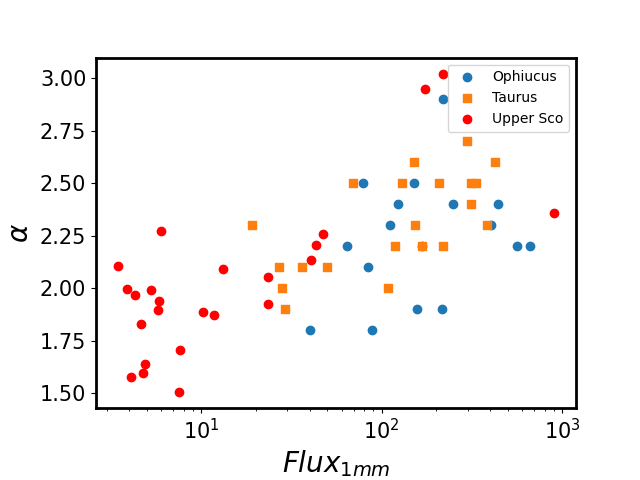
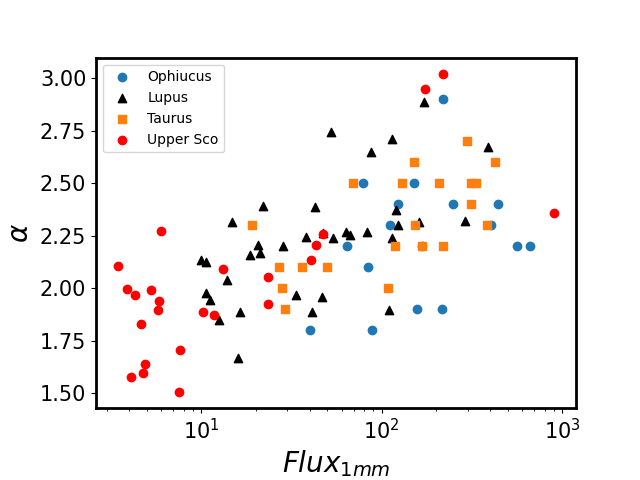
.

diff --git a/Gradient_age_in_HR_diagram.py b/Gradient_age_in_HR_diagram.py
@@ -1,8 +1,10 @@
+import scipy.stats
+
 from data_file import source_list_garrett, source_list_barenfeld_2016, temperature_list_barenfeld,\
-    ricci_temperature_taurus_1mm, ricci_luminosity_taurus_1mm_NOT_LOG, spectral_indices_taurus
+    ricci_temperature_taurus_1mm, ricci_luminosity_taurus_1mm_NOT_LOG, spectral_indices_taurus,\
+    luminosity_list_barenfeld_updated
 from Parallaxes import luminosity_106, lower_new_luminosity_error_log, upper_new_luminosity_error_log
 from Cumulative_spectral_indices import spectral_index_upper_sco
-from HR_Diagram import f20, f10, f5
 
 import numpy as np
 import matplotlib.pyplot as plt
@@ -38,37 +40,38 @@ ricci_luminosity_taurus_1mm_LOG = [np.log10(x) for x in ricci_luminosity_taurus_
 # manipulate trasnparency errobars
 kwargs_errobar = {'alpha':0.3}
 
-x_5Myr = np.linspace(3000, 5280)
-x = np.linspace(3000, 5000)
+x = np.linspace(-1.5, 1)
 
 matching_temperatures_barenfeld_garrett = [10 ** x for x in matching_temperatures_barenfeld_garrett]
 
-z = np.polyfit(matching_temperatures_barenfeld_garrett, spectral_index_upper_sco, 3)
+z = np.polyfit(luminosity_list_barenfeld_updated, spectral_index_upper_sco, 1)
 p = np.poly1d(z)
 plt.plot(x, p(x))
-plt.fill_between(x, p(x), p(x)+0.3, **kwargs_errobar)
-plt.fill_between(x, p(x), p(x)-0.3, **kwargs_errobar)
+#plt.fill_between(x, p(x), p(x)+0.3, **kwargs_errobar)
+#plt.fill_between(x, p(x), p(x)-0.3, **kwargs_errobar)
 
 #scatter T vs alpha
-plt.scatter(matching_temperatures_barenfeld_garrett, spectral_index_upper_sco, c=matching_luminsoities_barenfeld_garrett, cmap='gray', zorder=2, label='Upper-Sco')
-#plt.errorbar(matching_temperatures_barenfeld_garrett, matching_luminsoities_barenfeld_garrett, yerr=matching_upper_luminoisty_error_barenfeld_garrett_LOG, ls='none')
-#plt.plot(x, f10(x), c='red', label='10Myr', zorder=1)
-#plt.plot(x, f20(x), label='20Myr', zorder=1)
-#plt.plot(x_5Myr, f5(x_5Myr), c='black', label='5Myr', zorder=1)
+plt.scatter(luminosity_list_barenfeld_updated, spectral_index_upper_sco, c=matching_temperatures_barenfeld_garrett, cmap='gray', zorder=2, label='Upper-Sco')
 plt.gca().invert_xaxis()
 plt.legend()
-plt.xlabel("$T[K]$", fontsize=20), plt.ylabel(r'$\alpha', fontsize=20)
+plt.xlabel(r"$L [L_{\odot}]$")
+#plt.xlabel(r"$T[\rm K]$", fontsize=20)
+plt.ylabel(r'$\alpha$', fontsize=20)
 plt.show()
 
-z = np.polyfit(ricci_temperature_taurus_1mm, spectral_indices_taurus, 3)
+z = np.polyfit(ricci_luminosity_taurus_1mm_LOG, spectral_indices_taurus, 1)
 p_1 = np.poly1d(z)
 plt.gca().invert_xaxis()
 plt.plot(x, p_1(x))
-plt.fill_between(x, p_1(x), p_1(x)+0.3, **kwargs_errobar)
-plt.fill_between(x, p_1(x), p_1(x)-0.3, **kwargs_errobar)
-plt.scatter(ricci_temperature_taurus_1mm, spectral_indices_taurus, c=ricci_luminosity_taurus_1mm_LOG)
+#plt.fill_between(x, p_1(x), p_1(x)+0.3, **kwargs_errobar)
+#plt.fill_between(x, p_1(x), p_1(x)-0.3, **kwargs_errobar)
+plt.scatter(ricci_luminosity_taurus_1mm_LOG, spectral_indices_taurus, c=ricci_temperature_taurus_1mm)
+plt.xlabel(r"$L [L_{\odot}]$", fontsize=20), plt.ylabel(r'$\alpha$', fontsize=20)
 plt.show()
 
+plt.xlabel(r"$L [L_{\odot}]$", fontsize=20), plt.ylabel(r'$\alpha$', fontsize=20)
 plt.plot(x, p(x))
 plt.plot(x, p_1(x))
 plt.show()
+print("Upper-Sco", scipy.stats.linregress(x, p(x)))
+print("Taurus", scipy.stats.linregress(x, p_1(x)))

diff --git a/Table_5.py b/Table_5.py
@@ -1,30 +1,34 @@
-from Cumulative_spectral_indices import spectral_indices_taurus, spectral_index_lupus, \
+from Cumulative_spectral_indices import spectral_indices_taurus, spectral_indices_matching_lupus, \
     flux_matching_tazzari_ANDSELL_lupus, sources_matching_tazzari_andsell_lupus,\
-    flux_matching_TAZZARI_andsell_lupus, spectral_index_ophiucus
+    flux_matching_TAZZARI_andsell_lupus, spectral_index_ophiucus, tazzari_lupus_flux
 
 from data_file import source_list_ophiucus_ricci_1mm, flux_list_ophiucus_ricci_1mm, ricci_taurus_sources_1mm,\
-    ricci_taurus_fluxes_1mm
+    ricci_taurus_fluxes_1mm, tazzari_lupus_spectral_indices
 
 from tabulate import tabulate
 import numpy as np
 
 
 def find_flux_3_mm(spectral_index, flux_1_mm):
-    return flux_1_mm / (10**(spectral_index * np.log10((10**11/1)/(10**11/3))))
+    return flux_1_mm/(3**spectral_index)
+
+def find_flux_1_mm(spectral_index, flux_3_mm):
+    return 3**spectral_index * flux_3_mm
 
 flux_ophiucus_3_mm = []
 for index_flux_1_mm, element_flux_1_mm in enumerate(flux_list_ophiucus_ricci_1mm):
     flux_ophiucus_3_mm.append(find_flux_3_mm(spectral_index_ophiucus[index_flux_1_mm], element_flux_1_mm))
 
 ricci_taurus_fluxes_3mm = []
-for index_flux_3_mm, element_flux_3_mm in enumerate(spectral_indices_taurus):
-    ricci_taurus_fluxes_3mm.append(find_flux_3_mm(spectral_indices_taurus[index_flux_3_mm], element_flux_3_mm))
+for index_flux_1_mm, element_flux_1_mm in enumerate(spectral_indices_taurus):
+    ricci_taurus_fluxes_3mm.append(find_flux_3_mm(element_flux_1_mm, ricci_taurus_fluxes_1mm[index_flux_1_mm]))
+
 
 wavelength_upper_sco = 0.87
 table_5 = []
-for index_spectral_index_lupus, element_spectral_index_lupus in enumerate(spectral_index_lupus):
-    table_5.append(['Lupus', sources_matching_tazzari_andsell_lupus[index_spectral_index_lupus], 0.87,
-                    round(flux_matching_tazzari_ANDSELL_lupus[index_spectral_index_lupus], 2), 3.1,
+for index_spectral_index_lupus, element_spectral_index_lupus in enumerate(spectral_indices_matching_lupus):
+    table_5.append(['Lupus', sources_matching_tazzari_andsell_lupus[index_spectral_index_lupus], 1,
+                    round(flux_lupus_1_mm[index_spectral_index_lupus], 2), 3,
                     round(flux_matching_TAZZARI_andsell_lupus[index_spectral_index_lupus], 2), round(element_spectral_index_lupus, 2)])
 
 for index_spectraL_index_taurus, element_spectral_index_taurus in enumerate(spectral_indices_taurus):
@@ -42,6 +46,6 @@ for index_spectraL_index_ophiucus, element_spectral_index_ophiucus in enumerate(
 
 # create file on notepad called 'Table 4'
 with open('Table 5.txt', 'w') as f:
-    f.write(tabulate(table_5,headers=['Region', 'Source', 'Wavelength', 'Flux', 'Wavelength', 'Flux', r'\alpha']))
+    f.write(tabulate(table_5,headers=['Region', 'Source', 'Wavelength', r'$Flux_{1mm}$', 'Wavelength', r'$Flux_{3mm}$', r'$\alpha$']))
 
 print(tabulate(table_5, headers=['Region', 'Wavelength', 'Source', 'Flux', 'Wavelength', 'Flux', r'\alpha']))

diff --git a/Cumulative_spectral_indices.py b/Cumulative_spectral_indices.py
@@ -5,7 +5,6 @@ from data_file import tazzari_lupus_flux, tazzari_lupus_flux_error, tazzari_lupu
     ricci_taurus_fluxes_1mm, flux_ansdell_1_33mm_lupus
 from Histogram_spectral_index import spectral_index_upper_sco
 
-
 import numpy as np
 import matplotlib.pyplot as plt
 from scipy.stats import kstest
@@ -18,6 +17,13 @@ plt.setp(ax.spines.values(), linewidth=2)
 # avoid axis labels being cut
 plt.gcf().subplots_adjust(bottom=0.15, left=0.15)
 
+def find_flux_1_mm(spectral_index, flux_3_mm):
+    return 3**spectral_index * flux_3_mm
+
+flux_lupus_1_mm = []
+for index_flux_3_mm, element_flux_3_mm in enumerate(tazzari_lupus_spectral_indices):
+    flux_lupus_1_mm.append(find_flux_1_mm(element_flux_3_mm, tazzari_lupus_flux[index_flux_3_mm]))
+
 # capitals are used to indicate which list the elements are from
 sources_matching_tazzari_andsell_lupus = []
 # ex. when a matching source is found, the flux from Tazzari is added to flux_matching_TAZZARI_andsell
@@ -26,6 +32,7 @@ flux_matching_TAZZARI_andsell_lupus = []
 flux_matching_TAZZARI_andsell_error_lupus = []
 flux_matching_tazzari_ANDSELL_lupus = []
 flux_matching_tazzari_ANDSELL_error_lupus = []
+spectral_indices_matching_lupus = []
 for index_andsell, element_andsell in enumerate(source_ansdell_lupus):
     for index_tazzari, element_tazzari in enumerate(tazzari_lupus_sources):
         if element_tazzari == element_andsell:
@@ -34,6 +41,7 @@ for index_andsell, element_andsell in enumerate(source_ansdell_lupus):
             flux_matching_TAZZARI_andsell_error_lupus.append(tazzari_lupus_flux_error[index_tazzari])
             flux_matching_tazzari_ANDSELL_lupus.append(flux_ansdell_1_33mm_lupus[index_andsell])
             flux_matching_tazzari_ANDSELL_error_lupus.append(flux_ansdell_1_33mm_error_lupus[index_andsell])
+            spectral_indices_matching_lupus.append(tazzari_lupus_spectral_indices[index_tazzari])
 
 
 matching_sources_ricci_ophiucus_3mm_1mm = []
@@ -105,9 +113,8 @@ while minimum < np.max(spectral_index_ophiucus) + 0.3:
 
 count_list_ophiucus = [x / len(spectral_index_ophiucus) for x in count_list_ophiucus]
 
-print(tazzari_lupus_sources)
 plt.scatter(flux_list_ophiucus_ricci_1mm, spectral_index_ophiucus, label='Ophiucus',)
-#plt.scatter(tazzari_lupus_sources, tazzari_lupus_spectral_indices, label='Lupus', marker='^', color='black')
+plt.scatter(flux_lupus_1_mm, tazzari_lupus_spectral_indices, label='Lupus', marker='^', color='black')
 plt.scatter(ricci_taurus_fluxes_1mm, spectral_indices_taurus, label='Taurus', marker='s')
 plt.scatter(flux_barenfeld_0_88mm_updated, spectral_index_upper_sco, label='Upper Sco', color='red')
 plt.xlabel('$Flux_{1mm}$', fontsize=20), plt.ylabel(r'$\alpha$', fontsize=20)

diff --git a/data_file.py b/data_file.py
@@ -160,6 +160,7 @@ with open('Tazzari 2021 2.7mm.txt') as f:
 # ex ' Sz 65 ' becomes 'Sz 65'
 tazzari_lupus_sources = [x.strip() for x in tazzari_lupus_sources]
 tazzari_lupus_flux = [x.strip() for x in tazzari_lupus_flux]
+tazzari_lupus_flux.remove('nan')
 tazzari_lupus_flux_error = [float(x.strip()) for x in tazzari_lupus_flux_error]
 tazzari_lupus_sources.remove('Sz 91')
 tazzari_lupus_spectral_indices.remove('      nan')
@@ -167,7 +168,7 @@ tazzari_lupus_spectral_indices = [float(x.strip()) for x in tazzari_lupus_spectr
 
 
 # one flux for a star is missing, so pop all the data from that line
-tazzari_lupus_flux = [float(x) if x != 'nan' else 0 for x in tazzari_lupus_flux]
+tazzari_lupus_flux = [float(x) if x != 'nan' else tazzari_lupus_flux.pop(tazzari_lupus_flux.index(x)) for x in tazzari_lupus_flux]
 
 
 # remove white spaces in the middle of the name
@@ -270,6 +271,15 @@ for x in wavelengths_to_remove:
 ricci_taurus_flux_3mm = [float(x) for x in ricci_taurus_flux_3mm]
 ricci_wavelengths_3mm = [float(x) for x in ricci_wavelengths_3mm]
 
+ricci_luminosity_taurus_1mm_NOT_LOG = []
+with open('Ricci_taurus_table2.tex.txt') as f:
+    lines = f.readlines()[9:-6]
+    for x in lines:
+        ricci_luminosity_taurus_1mm_NOT_LOG.append(x.split('&')[3])
+
+ricci_luminosity_taurus_1mm_NOT_LOG = [x.strip() for x in ricci_luminosity_taurus_1mm_NOT_LOG]
+ricci_luminosity_taurus_1mm_NOT_LOG = [float(x) for x in ricci_luminosity_taurus_1mm_NOT_LOG]
+
 spectral_indices_taurus = []
 ricci_taurus_sources_1mm = []
 ricci_taurus_fluxes_1mm = []
@@ -280,12 +290,10 @@ with open('Ricci Taurus 1mm.txt') as f:
         ricci_taurus_fluxes_1mm.append(x.split('&')[2])
         spectral_indices_taurus.append(x.split('&')[3])
 
-print(ricci_taurus_sources_1mm, ricci_taurus_fluxes_1mm)
 ricci_taurus_fluxes_1mm = [float(x.strip()) for x in ricci_taurus_fluxes_1mm]
 ricci_taurus_sources_1mm = [x.strip() for x in ricci_taurus_sources_1mm]
 spectral_indices_taurus = [float(x.strip()) for x in spectral_indices_taurus]
 ricci_temperature_taurus_1mm = [4060, 4060, 4730, 3488, 3705, 3560, 4060, 3705, 3850, 3850, 4060, 4900, 3850, 3850, 4730, 3850, 3778, 3778, 5080, 5860, 3705]
-ricci_luminosity_taurus_1mm_NOT_LOG = [0.80, 1.01, 1.32, 0.48, 0.55, 1.01, 0.89, 0.24, 0.91, 0.79, 1.09, 0.90, 0.26, 1.06, 1.26, 0.27, 0.16, 0.73, 6.59, 10.6, 2.27]
 
 sources_ophiucus_cox = []
 fluxes_ophiucus_cox_0_87mm = []

diff --git a/formula_file.py b/formula_file.py
@@ -1,12 +1,9 @@
 from astropy import constants
 import numpy as np
 
-M_sun = constants.M_sun.cgs.value
-L_sun = constants.L_sun.cgs.value
-k_b = constants.k_B.cgs.value
-s_b = constants.sigma_sb.cgs.value
-c = constants.c.cgs.value
-h = constants.h.cgs.value
+
+def update_lum(old_luminosity, old_distance, new_distance):
+    return old_luminosity * (new_distance ** 2) / (old_distance ** 2)
 
 
 def temperature(R, luminosity):
@@ -23,7 +20,3 @@ def Mass(flux, distance, opacity, planck, temperature):
 
 def beta(wavelength_1, wavelength_2, T):
     return np.log10((Planck_2(wavelength_1, T))/Planck_2(wavelength_2, T)) / abs(np.log10(wavelength_1/ wavelength_2)) - 2
-
-
-def update_lum(old_luminosity, old_distance, new_distance):
-    return old_luminosity * (new_distance ** 2) / (old_distance ** 2)
